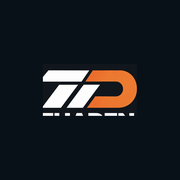
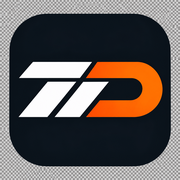
Add files via upload

diff --git a/index.html b/index.html
@@ -57,10 +57,10 @@ body{background:#fff}.screen{display:none!important}.print-only{display:block!im
 </style>
 
 <link rel="manifest" href="manifest.webmanifest?v=6">
-<link rel="icon" type="image/png" sizes="192x192" href="assets/icon-192-td-only-v5.png?v=6">
-<link rel="icon" type="image/png" sizes="512x512" href="assets/icon-512-td-only-v5.png?v=6">
-<link rel="apple-touch-icon" sizes="180x180" href="apple-touch-icon.png?v=6">
-<link rel="apple-touch-icon-precomposed" sizes="180x180" href="apple-touch-icon-precomposed.png?v=6">
+<link rel="icon" type="image/png" sizes="192x192" href="assets/icon-192-td-only-v7.png?v=7">
+<link rel="icon" type="image/png" sizes="512x512" href="assets/icon-512-td-only-v7.png?v=7">
+<link rel="apple-touch-icon" sizes="180x180" href="apple-touch-icon.png?v=7">
+<link rel="apple-touch-icon-precomposed" sizes="180x180" href="apple-touch-icon.png?v=7">
 <meta name="apple-mobile-web-app-capable" content="yes">
 <meta name="apple-mobile-web-app-status-bar-style" content="black-translucent">
 <meta name="apple-mobile-web-app-title" content="THADEN DOKU">

diff --git a/README.md b/README.md
@@ -1,13 +1,14 @@
-THADEN DOKUMENTATION – TD Home-Screen V6
+THADEN DOKUMENTATION – TD ICON V7
 
-Diese Version verwendet das TD-Logo zusätzlich als festes Apple Touch Icon
-im Root-Verzeichnis:
-- apple-touch-icon.png
-- apple-touch-icon-precomposed.png
+Neues Home-Screen/App-Icon:
+- nur das große TD-Monogramm
+- kein THADEN-/DOKUMENTATION-Schriftzug
+- kein orangefarbener Außenrahmen
+- dunkler App-Hintergrund
+- für iPhone/Safari als Apple Touch Icon hinterlegt
 
-Dadurch kann Safari das Symbol beim „Zum Home-Bildschirm“ zuverlässig finden.
-
-Wichtig:
-1. index.html und die Dateien aus diesem Paket im GitHub-Repository ersetzen.
-2. Danach die bestehende THADEN-DOKU-Verknüpfung vom iPhone löschen.
-3. Safari für die Seite neu laden und „Zum Home-Bildschirm“ erneut auswählen.
+Für die Aktualisierung:
+1. Dateien aus diesem Paket ins GitHub-Repository übernehmen.
+2. Den bisherigen THADEN-DOKU Home-Screen-Eintrag löschen.
+3. Safari neu laden.
+4. Die Web-App erneut „Zum Home-Bildschirm“ hinzufügen.
